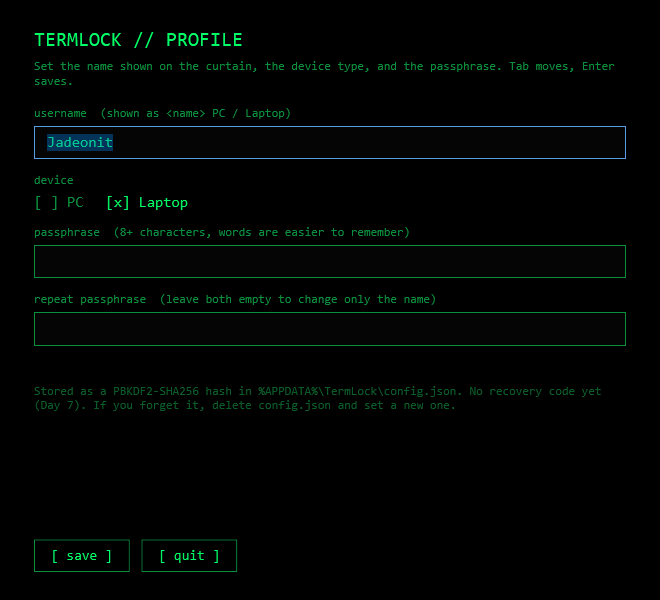
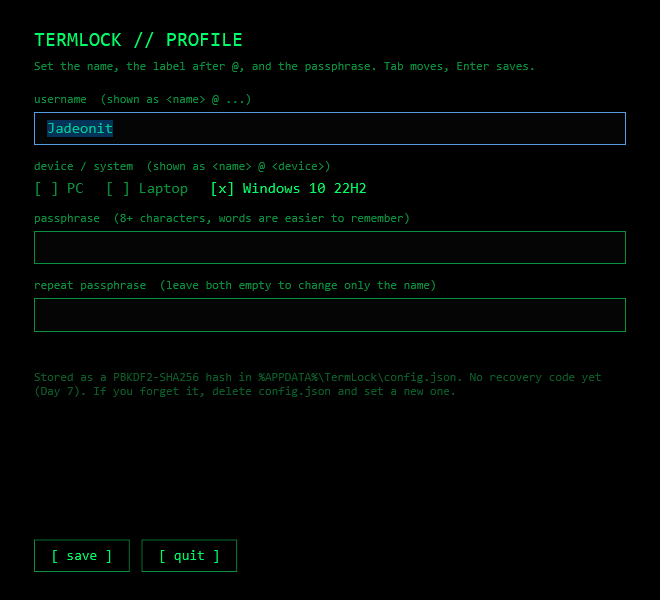
feat(profile): user @ device and Windows version
Setup offers PC, Laptop or the detected Windows label; the curtain renders '<name> @ <label>' and the stats show the Windows version.

diff --git a/src/TermLock/UI/SetupWindow.xaml b/src/TermLock/UI/SetupWindow.xaml
@@ -120,13 +120,13 @@
 
         <TextBlock Grid.Row="1"
                    Margin="0,8,0,18"
-                   Text="Set the name shown on the curtain, the device type, and the passphrase. Tab moves, Enter saves."
+                   Text="Set the name, the label after @, and the passphrase. Tab moves, Enter saves."
                    Foreground="#0A8F3C"
                    TextWrapping="Wrap" />
 
         <TextBlock Grid.Row="2"
                    Margin="0,0,0,6"
-                   Text="username  (shown as &lt;name&gt; PC / Laptop)"
+                   Text="username  (shown as &lt;name&gt; @ ...)"
                    Foreground="#0A8F3C" />
         <TextBox x:Name="UserNameInput"
                  Grid.Row="3"
@@ -135,7 +135,7 @@
 
         <TextBlock Grid.Row="4"
                    Margin="0,14,0,6"
-                   Text="device"
+                   Text="device / system  (shown as &lt;name&gt; @ &lt;device&gt;)"
                    Foreground="#0A8F3C" />
         <StackPanel Grid.Row="5"
                     Orientation="Horizontal">
@@ -146,6 +146,10 @@
                          Style="{StaticResource DeviceChoice}" />
             <RadioButton x:Name="LaptopRadio"
                          Content="Laptop"
+                         GroupName="Device"
+                         Style="{StaticResource DeviceChoice}" />
+            <RadioButton x:Name="WindowsRadio"
+                         Content="Windows"
                          GroupName="Device"
                          Style="{StaticResource DeviceChoice}" />
         </StackPanel>

diff --git a/src/TermLock/Core/SystemInfo.cs b/src/TermLock/Core/SystemInfo.cs
@@ -1,0 +1,48 @@
+using Microsoft.Win32;
+
+namespace TermLock.Core;
+
+/// <summary>
+/// Friendly Windows version label, e.g. "Windows 10 22H2" or "Windows 11 24H2".
+/// Read from HKLM\SOFTWARE\Microsoft\Windows NT\CurrentVersion — no WMI, no network.
+/// </summary>
+public static class SystemInfo
+{
+    public static string WindowsLabel()
+    {
+        try
+        {
+            using var key = Registry.LocalMachine.OpenSubKey(
+                @"SOFTWARE\Microsoft\Windows NT\CurrentVersion");
+
+            var product = key?.GetValue("ProductName") as string ?? "Windows";
+            var version = key?.GetValue("DisplayVersion") as string;
+            var buildText = key?.GetValue("CurrentBuildNumber") as string;
+
+            // Windows 11 still reports "Windows 10 ..." in ProductName on some
+            // builds; the build number is the reliable switch.
+            if (int.TryParse(buildText, out var build) && build >= 22000)
+            {
+                product = product.Replace("Windows 10", "Windows 11");
+            }
+
+            foreach (var edition in new[]
+                     {
+                         " Pro", " Home", " Enterprise", " Education", " IoT", " N"
+                     })
+            {
+                product = product.Replace(edition, "");
+            }
+
+            product = product.Trim();
+
+            return string.IsNullOrWhiteSpace(version)
+                ? product
+                : $"{product} {version}";
+        }
+        catch
+        {
+            return "Windows";
+        }
+    }
+}

diff --git a/src/TermLock/Core/AppConfig.cs b/src/TermLock/Core/AppConfig.cs
@@ -13,13 +13,13 @@ public sealed class AppConfig
     /// <summary>Shown in the terminal header. Not the Windows hostname.</summary>
     public string DisplayName { get; set; } = "Jadeonit-laptop";
 
-    /// <summary>Name typed during setup; the curtain renders "{UserName} PC" or "{UserName} Laptop".</summary>
+    /// <summary>Name typed during setup; the curtain renders "{UserName} @ {DeviceType}".</summary>
     public string UserName { get; set; } = "Jadeonit";
 
-    /// <summary>"PC" or "Laptop".</summary>
+    /// <summary>"PC", "Laptop", or a detected Windows label like "Windows 10 22H2".</summary>
     public string DeviceType { get; set; } = "PC";
 
-    /// <summary>Convenience for the UI: "Jadeonit PC" or "Jadeonit Laptop".</summary>
+    /// <summary>Convenience for the UI: "Jadeonit @ PC" or "Jadeonit @ Windows 10 22H2".</summary>
     [JsonIgnore]
     public string DisplayNameWithDevice
     {
@@ -30,11 +30,8 @@ public sealed class AppConfig
                 return DisplayName;
             }
 
-            var device = string.Equals(DeviceType, "Laptop", StringComparison.OrdinalIgnoreCase)
-                ? "Laptop"
-                : "PC";
-
-            return $"{UserName} {device}";
+            var device = string.IsNullOrWhiteSpace(DeviceType) ? "PC" : DeviceType;
+            return $"{UserName} @ {device}";
         }
     }
 

diff --git a/src/TermLock/UI/SetupWindow.xaml.cs b/src/TermLock/UI/SetupWindow.xaml.cs
@@ -22,7 +22,13 @@ public partial class SetupWindow : Window
             ? "Jadeonit"
             : config.UserName;
 
-        if (string.Equals(config.DeviceType, "Laptop", StringComparison.OrdinalIgnoreCase))
+        WindowsRadio.Content = SystemInfo.WindowsLabel();
+
+        if (config.DeviceType.StartsWith("Windows", StringComparison.OrdinalIgnoreCase))
+        {
+            WindowsRadio.IsChecked = true;
+        }
+        else if (string.Equals(config.DeviceType, "Laptop", StringComparison.OrdinalIgnoreCase))
         {
             LaptopRadio.IsChecked = true;
         }
@@ -88,7 +94,10 @@ public partial class SetupWindow : Window
             return;
         }
 
-        var device = LaptopRadio.IsChecked == true ? "Laptop" : "PC";
+        var device = WindowsRadio.IsChecked == true
+            ? SystemInfo.WindowsLabel()
+            : LaptopRadio.IsChecked == true ? "Laptop" : "PC";
+
         var first = Pass1.Password;
         var second = Pass2.Password;
 
@@ -127,7 +136,7 @@ public partial class SetupWindow : Window
     {
         _config.UserName = user;
         _config.DeviceType = device;
-        _config.DisplayName = $"{user} {device}";
+        _config.DisplayName = $"{user} @ {device}";
     }
 
     private void OnQuit(object sender, RoutedEventArgs e)

diff --git a/src/TermLock/UI/MainWindow.xaml.cs b/src/TermLock/UI/MainWindow.xaml.cs
@@ -1,6 +1,5 @@
 using System.ComponentModel;
 using System.IO;
-using System.Runtime.InteropServices;
 using System.Windows;
 using System.Windows.Media;
 using System.Windows.Media.Imaging;
@@ -164,8 +163,8 @@ public partial class MainWindow : Window
 
         StatsText.Text = $"""
 SYSTEM
-  host       {_config.DisplayNameWithDevice}
-  os         {RuntimeInformation.OSDescription}
+  user       {_config.DisplayNameWithDevice}
+  os         {SystemInfo.WindowsLabel()}
   uptime     {uptime.Days}d {uptime.Hours:00}h {uptime.Minutes:00}m
   cpu        [ -- ]  day 6
   ram        [ -- ]  day 6

diff --git a/README.md b/README.md
@@ -23,7 +23,7 @@ laptop, useless against someone who knows what they are doing. See
 - fullscreen, borderless, topmost terminal curtain across the whole virtual desktop
 - global hotkey `Ctrl+Alt+Shift+L`
 - passphrase unlock (`PBKDF2-HMAC-SHA256`, 600 000 iterations, random salt)
-- profile name + device type (`<name> PC` or `<name> Laptop`) shown on the curtain
+- profile name + label (`<name> @ PC`, `<name> @ Laptop`, or `<name> @ Windows 10 22H2`) shown on the curtain
 - attempt counter with a cooldown
 - tray icon: lock / set profile / open config folder / exit
 - autostart via `HKCU\...\Run` (no admin, no service, no driver)
@@ -67,8 +67,8 @@ dotnet run --project src/TermLock
 dotnet run --project src/TermLock -- --lock
 ```
 
-On the first run TermLock asks for a display name, a device type (PC or Laptop)
-and a passphrase. The passphrase is stored as a PBKDF2 hash in
+On the first run TermLock asks for a display name, a device/system label and a
+passphrase. The passphrase is stored as a PBKDF2 hash in
 `%APPDATA%\TermLock\config.json` — never in plaintext.
 
 ## Set or change the profile
@@ -77,14 +77,15 @@ and a passphrase. The passphrase is stored as a PBKDF2 hash in
 A black `TERMLOCK // PROFILE` window appears in the center of the screen:
 
 1. Type the name shown on the curtain (for example `Jadeonit`).
-2. Choose `[ PC ]` or `[ Laptop ]`.
+2. Choose `[ ] PC`, `[ ] Laptop`, or `[ ] Windows 10 22H2`.
+   The Windows label is detected from the registry.
 3. Type a passphrase of 8 or more characters.
 4. Press `Tab` (or `Enter`) to move to the second field.
 5. Type the same passphrase again.
 6. Press `Enter` (or click `[ save ]`).
 
-The curtain renders `<name> PC` or `<name> Laptop` in the header and the `host`
-line.
+The curtain renders `<name> @ PC`, `<name> @ Laptop`, or
+`<name> @ Windows 10 22H2` in the header and the `user` line.
 
 ![Profile dialog](docs/screenshot-setup.png)
 
@@ -96,7 +97,7 @@ TermLock.exe --setup
 
 `--setup` always opens the dialog, even when a passphrase already exists. Use it
 when TermLock is not running; the tray menu applies changes immediately.
-Leave both passphrase fields empty to change only the name and device type.
+Leave both passphrase fields empty to change only the name and label.
 
 If you forget the passphrase, delete `%APPDATA%\TermLock\config.json` and run
 `--setup` again. This is intentional: a curtain must never lock *you* out.

diff --git a/docs/CODE.md b/docs/CODE.md
@@ -258,3 +258,24 @@ Get-Content "$env:APPDATA\TermLock\logs\termlock.log" -Tail 20
 Раскладка: мультимонитор, DPI, аккуратные отступы, курсор и строка статуса.
 Рендерер уже есть; теперь надо сделать так, чтобы он хорошо смотрелся на любом
 экране.
+
+## 11. Профиль и версия Windows
+
+`SetupWindow` собирает:
+
+- `UserName` — имя на ширме;
+- `DeviceType` — `PC`, `Laptop` или версия системы;
+- `DisplayName` — готовая строка вида `Jadeonit @ Windows 10 22H2`.
+
+`SystemInfo.WindowsLabel()` читает
+`HKLM\SOFTWARE\Microsoft\Windows NT\CurrentVersion`:
+
+- `ProductName` — убираем редакцию (`Pro`, `Home`, `Enterprise`, ...);
+- `CurrentBuildNumber` ≥ 22000 — значит, это Windows 11, даже если
+  `ProductName` всё ещё пишет `Windows 10`;
+- `DisplayVersion` — `22H2`, `23H2`, `24H2`.
+
+`AppConfig.DisplayNameWithDevice` склеивает `"{UserName} @ {DeviceType}"`.
+Поэтому в шапке и в строке `user` появляется `Jadeonit @ Windows 10 22H2`.
+Если в настройке выбрать `PC` или `Laptop`, будет `Jadeonit @ PC` или
+`Jadeonit @ Laptop`.
